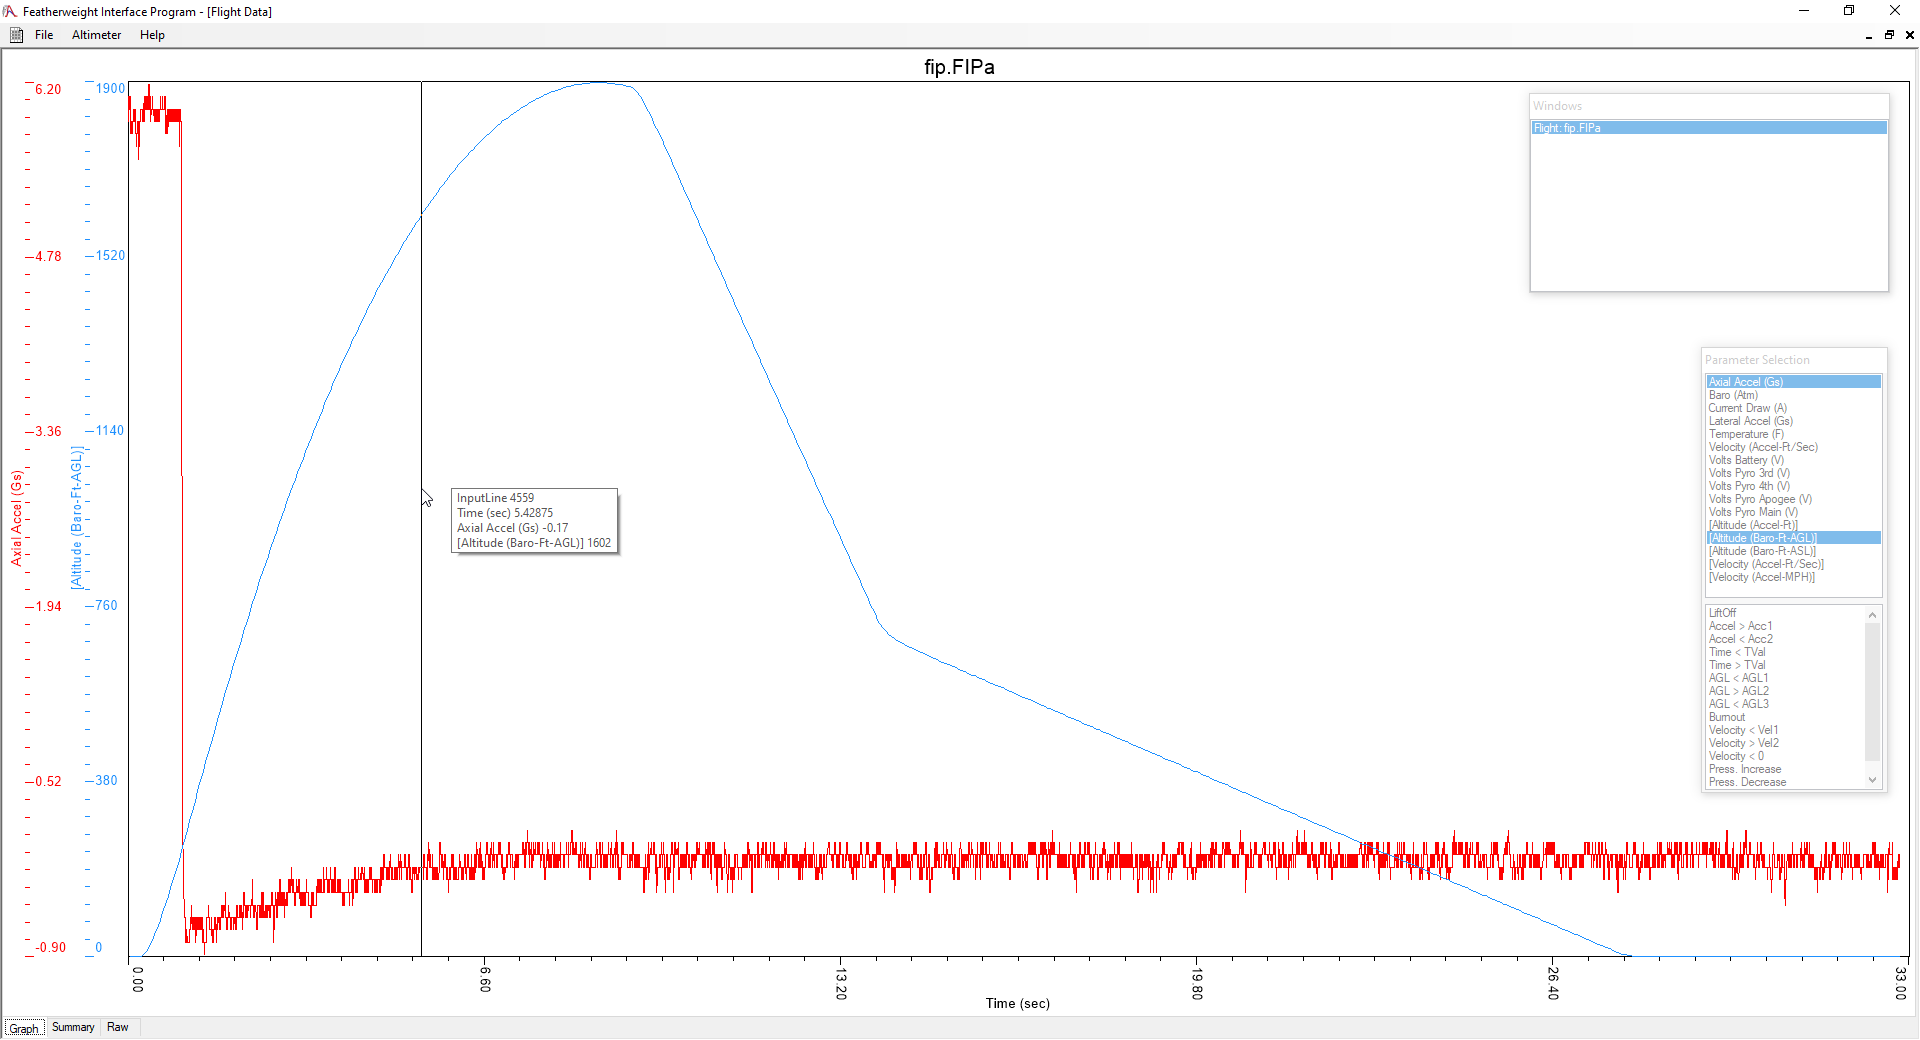
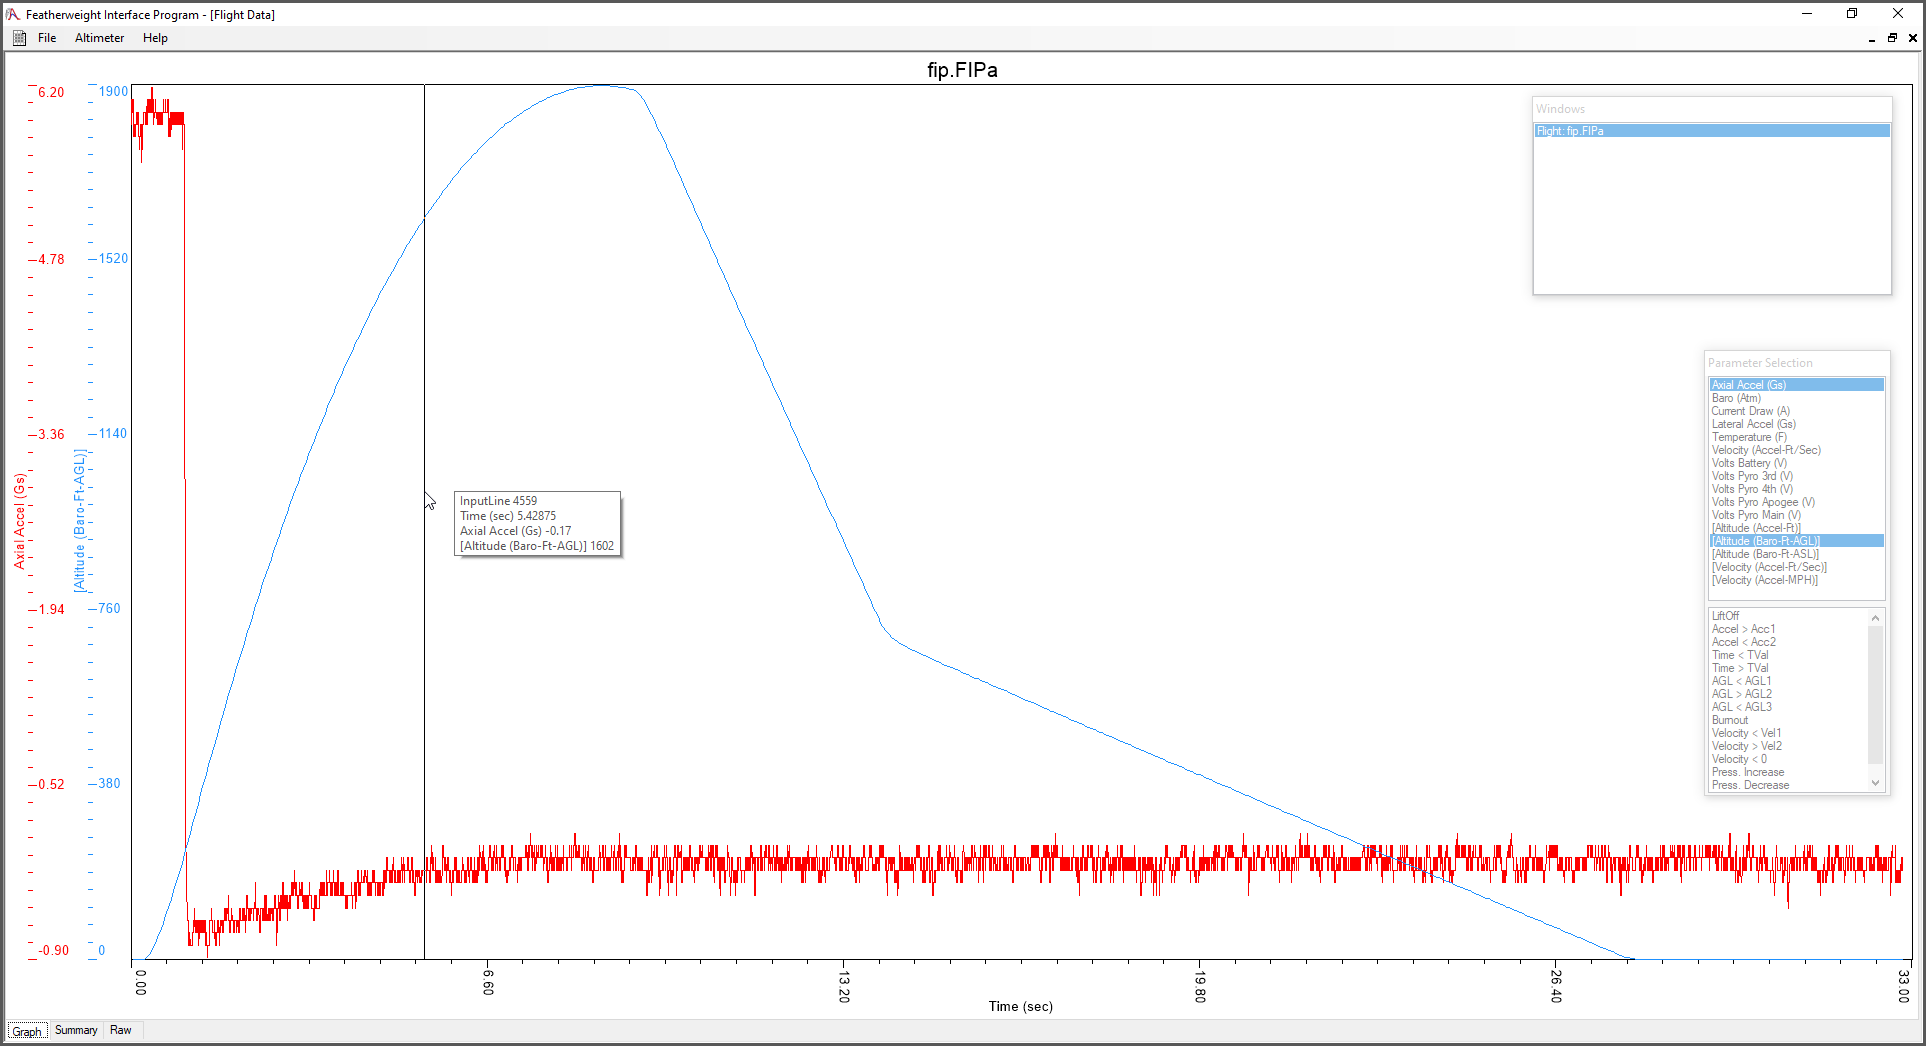
Fixed issues in the README.
- Removed note-icon from the Note blockquote, because GitHub adds info
icon automatically.
- Added borders to the images to improve clarity against white
background.

diff --git a/README.md b/README.md
@@ -13,7 +13,7 @@ do attempt to automate the cloud configuration and deployment, this is unlikely
 to be a good solution for people who are not into software development. But
 this project might be a good starting point if you like to do things yourself.
 
-> &#128221; **Note** <br>
+> **Note** <br>
 > The project is in the early development stage. Many features are missing, and
 > existing features may be incomplete. Since there are currently no releases,
 > all software is in the development branch.
